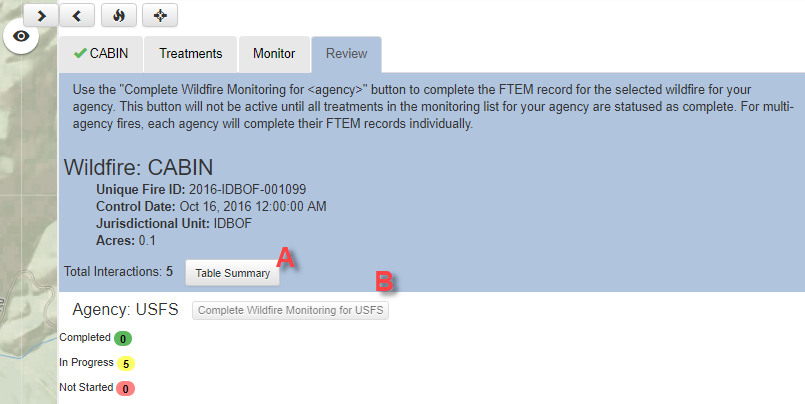
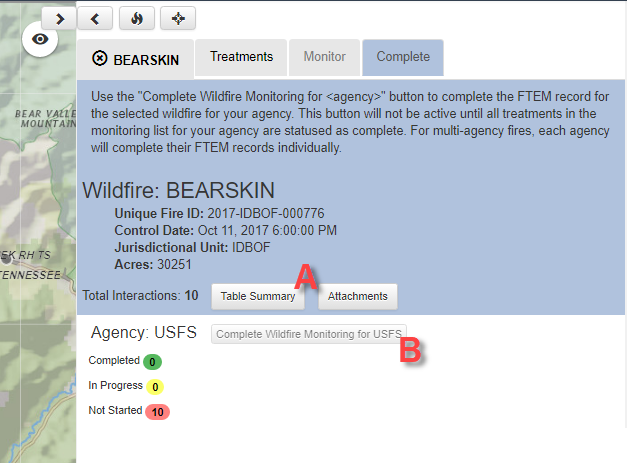
updates ftem pages, adds popover placeholders and links, updates font css for macs

diff --git a/Content/10-FTEM/UsingFtem.htm b/Content/10-FTEM/UsingFtem.htm
@@ -1,5 +1,5 @@
 <?xml version="1.0" encoding="utf-8"?>
-<html xmlns:MadCap="http://www.madcapsoftware.com/Schemas/MadCap.xsd" MadCap:lastBlockDepth="6" MadCap:lastHeight="4287" MadCap:lastWidth="1268">
+<html xmlns:MadCap="http://www.madcapsoftware.com/Schemas/MadCap.xsd" MadCap:lastBlockDepth="6" MadCap:lastHeight="4917" MadCap:lastWidth="2209">
     <head>
     </head>
     <body>
@@ -11,7 +11,7 @@
             </MadCap:dropDownHead>
             <MadCap:dropDownBody>
                 <p>
-                    <img src="../Resources/Images/FTEM/pickafire_diagram.png" alt="A layout map of common FTEM controls" />
+                    <img src="../Resources/Images/FTEM/pickafire_diagram.png" alt="A layout map of common FTEM controls" class="border" />
                 </p>
             </MadCap:dropDownBody>
         </MadCap:dropDown>
@@ -21,12 +21,12 @@
             </MadCap:dropDownHead>
             <MadCap:dropDownBody>
                 <p>
-                    <img src="../Resources/Images/FTEM/pickwildfire.png" alt="use the table to pick a wildfire" style="width: 845px;height: 419px;max-width: 680px;" />
+                    <img src="../Resources/Images/FTEM/pickwildfire.png" alt="use the table to pick a wildfire" style="width: 604px; height: 397px;" class="border" />
                 </p>
                 <p>Pick a wildfire based on year and wildfire name:</p>
                 <ol style="list-style-type: upper-alpha;">
                     <li>Enter a Wildfire Year, the year the wildfire was declared under control, or extinguished.</li>
-                    <li>(Optional) Filter your results by agency.</li>
+                    <li>(Optional) Filter your results by agency. If you are not an administrator or dual agency editor, this option may not be visible.</li>
                     <li>(Optional) Use the wildfire search field to further constrain your results by entering the fire name.</li>
                     <li>Left-click to select the desired fire name from the list.</li>
                     <div class="notificationTip">
@@ -36,24 +36,23 @@
                     <li>Proceed to the <span class="UIcomponent">Treatments</span>Tab. You may also proceed to Treatments by clicking the<span class="UIcomponent"> Select Treatments</span>button located to the left of the <span class="UIcomponent">Zoom To</span>button.</li>
                 </ol>
                 <div class="notificationNote">
-                    <p>Notice that each wildfire listed is followed by information, left to right, describing the number of acres, control date, jurisdiction unit, and the number of interactions.</p>
+                    <p>Notice that each wildfire listed is followed by information, left to right, describing the number of acres, control date, monitor status, and the number of interactions.</p>
                 </div>
             </MadCap:dropDownBody>
         </MadCap:dropDown>
         <MadCap:dropDown>
             <MadCap:dropDownHead>
-                <MadCap:dropDownHotspot>Step 2:&#160;Select Your Treatments</MadCap:dropDownHotspot>
+                <MadCap:dropDownHotspot>Step 2:&#160;Select Treatments</MadCap:dropDownHotspot>
             </MadCap:dropDownHead>
             <MadCap:dropDownBody>
-                <p> When a treatment is within your agencies jurisdiction you will see an empty check box to the left. </p>
-                <p>Select only the treatments that interacted with the wildfire. </p>
+                <p> In this step you will choose all the treatments for your agency that you know interacted or influenced the fire. Monitoring data for each of these will be added via the Monitoring tab. This step can be thought of as your 'shopping cart' where you place the treatments needing monitoring, and remove the ones that don't. </p>
                 <p>
-                    <img src="../Resources/Images/FTEM/treatments.png" alt="use the table to select your treatment" style="width: 1037px;height: 414px;" />
+                    <img src="../Resources/Images/FTEM/treatments.png" alt="use the table to select your treatment" style="width: 1037px; height: 414px;" class="border" />
                 </p>
                 <ol style="list-style-type: upper-alpha;">
                     <li>(Optional)&#160;If you know there are treatments that interacted with the wildfire, but do not see them here, click the <span class="UIcomponent">Add Treatment(s)</span>button to search and select treatments near the fire (This option allows you to choose a buffer distance to search within).</li>
                     <div class="notificationTip">By using the check box for one your more treatment, you may choose to enter data for treatments individually, or in batches.</div>
-                    <li>If there are treatments that should not be on this list, or did not interact with the fire, use the check box to select them and click the <span class="UIcomponent">Remove Treatment(s)</span>button. If you want to add these back in later, you may do so by using the <span class="UIcomponent">Add Treatments(s)</span>button.</li>
+                    <li>If there are treatments that did not interact with the fire, use the check box to select them and click the <span class="UIcomponent">Remove Treatment(s)</span>button. If you need to add these back in later, you may do so by using the <span class="UIcomponent">Add Treatments(s)</span>button.</li>
                     <li>Once you have all desired treatments, select them either individually by clicking the check box to the left of the treatment name(s), or by using the <span class="UIcomponent">Select All</span>button. <div class="notificationTip">Note the colored icons to the left of the treatment names. In this example the clouds indicate these treatments are polygons, and their red color indicates monitoring/data entry for them has not been started. Learn more about these symbols by visiting the <a href="Symbology.htm" target="_blank">FTEM&#160;Symbology Topic</a>.</div></li>
                     <li>Proceed to the <span class="UIcomponent">Monitor </span> tab. You may also get to Monitoring by clicking Monitor Treatment(s) button at the bottom right of the list.</li>
                 </ol>
@@ -64,11 +63,14 @@
         </MadCap:dropDown>
         <MadCap:dropDown>
             <MadCap:dropDownHead>
-                <MadCap:dropDownHotspot>Step 3: Enter Your Monitoring Data</MadCap:dropDownHotspot>
+                <MadCap:dropDownHotspot>Step 3: Enter Monitoring Data</MadCap:dropDownHotspot>
+                <MadCap:conditionalText MadCap:conditions="General.DeveloperNotes" class="comment">
+                    <MadCap:dropDownHotspot> - Note, these 'save' buttons in the UI&#160;may change before release</MadCap:dropDownHotspot>
+                </MadCap:conditionalText>
             </MadCap:dropDownHead>
             <MadCap:dropDownBody>
                 <p>
-                    <img src="../Resources/Images/FTEM/monitoring.png" alt="answer the required fields in the monitoring section" style="width: 850px;height: 666px;" />
+                    <img src="../Resources/Images/FTEM/monitoring.png" alt="answer the required fields in the monitoring section" style="width: 637px;height: 638px;" />
                 </p>
                 <ol style="list-style-type: upper-alpha;">
                     <li>Select the treatments to enter data for by clicking the check box next each treatment(s).</li>
@@ -77,19 +79,22 @@
                     <li>Proceed to any optional fields and enter data. We briefly describe guidance for data in each field in the <a href="Reporting.htm" target="_blank">FTEM Optional Questions Guidance Topic</a>.</li>
                     <li>Once your data is entered, click <span class="UIcomponent">Save and Close</span> to proceed. If you want to save your partially completed work and resume the rest of the process later, click <span class="UIcomponent">Save</span>.</li>
                     <div class="notificationTip">Note that in this example two of three treatments are selected for data entry. You can choose to enter the same data for all your treatments, or like this example, enter data for some treatments, and later enter different data for other treatments. This can be useful if multiple treatments were affected, but burned under different conditions.</div>
-                    <li>Proceed to the <span class="UIcomponent">Review</span> tab.</li>
+                    <li>While your treatment is still select, you may also use the <span class="UIcomponent">Attachments</span> button to add any relevant maps, images, or supporting materials.</li>
+                    <li>Proceed to the <span class="UIcomponent">Complete</span> tab.</li>
                 </ol>
             </MadCap:dropDownBody>
         </MadCap:dropDown>
         <MadCap:dropDown>
             <MadCap:dropDownHead>
-                <MadCap:dropDownHotspot>Step 4:&#160;Review and Submit your Data</MadCap:dropDownHotspot>
+                <MadCap:dropDownHotspot>Step 4:&#160;Complete the Process by Reviewing and Submitting your Data</MadCap:dropDownHotspot>
             </MadCap:dropDownHead>
             <MadCap:dropDownBody>
                 <p>
-                    <img src="../Resources/Images/FTEM/reviewtab.png" alt="the review tab lists all interactions" />
+                    <img src="../Resources/Images/FTEM/reviewtab.png" alt="the review tab lists all interactions" style="width: 556px; height: 410px;" class="border" />
                 </p>
-                <p>In the <span class="UIcomponent">Review</span> tab, click the <span class="UIcomponent">Table Summary</span> button to generate a review table of treatments and data entered. At this point, if you are satisfied with your treatment data, you may proceed to Step B. However, if you find a data entry that needs editing or additional information, you can use the tabs to navigate back, select treatments, and modify data.</p>
+                <p>In the <span class="UIcomponent">Complete</span> tab:</p>
+                <p>Click the <span class="UIcomponent">Table Summary</span> button to generate a review table of treatments and data entered. You may also review attachments using the <span class="UIcomponent">Attachments</span> button</p>
+                <p>At this point, if you are satisfied with your treatment data, you may proceed to Step B. However, if you find a data entry that needs editing or additional information, you can use the tabs to navigate back, select treatments, and modify data.</p>
                 <p>Click the <span class="UIcomponent">Complete Wildfire Monitoring</span>button to submit your data to the FTEM System.</p>
                 <p>At the bottom of the tab, the number of 'completed', 'in progress', and 'not started' treatments displays.</p>
                 <div class="notificationImportant">

diff --git a/Content/10-FTEM/MonitoringGuidance.htm b/Content/10-FTEM/MonitoringGuidance.htm
@@ -1,9 +1,9 @@
 <?xml version="1.0" encoding="utf-8"?>
-<html xmlns:MadCap="http://www.madcapsoftware.com/Schemas/MadCap.xsd" MadCap:lastBlockDepth="8" MadCap:lastHeight="3274" MadCap:lastWidth="1130">
+<html xmlns:MadCap="http://www.madcapsoftware.com/Schemas/MadCap.xsd" MadCap:lastBlockDepth="8" MadCap:lastHeight="4615" MadCap:lastWidth="2169">
     <head>
     </head>
     <body>
-        <h1>Guidance for Answering Monitoring</h1>
+        <h1>Guidance for Treatment Monitoring</h1>
         <p>Select the FTEM&#160;field below for an explanation about each input</p>
         <MadCap:dropDown>
             <MadCap:dropDownHead>
@@ -69,6 +69,7 @@
                 <ul>
                     <li>If you choose 'Other' or if there are multiple interactions in the 'Treatment and wildfire interaction details'</li>
                     <li>If you answered 'No' describing whether 'the treatment contributes to control and/or management of the fire.</li>
+                    <li>This will also be the place where to specify the RAWS name and number if used in the 'Weather Conditions' section later.</li>
                 </ul>
             </MadCap:dropDownBody>
         </MadCap:dropDown>
@@ -117,7 +118,7 @@
             <MadCap:dropDownBody>
                 <p>Report all fuel moisture percentages and weather observations <span class="Emphasis">at the time the wildfire intersected the treatment area </span>(or observation nearest to the time the fire intersected the treatment area). </p>
                 <p>Information should be either from the nearest weather station or from weather observations taken on site. If a weather station is used; indicate the name and RAWS station number used in the Comments section.</p>
-                <p>Select the estimated fuels moistures for 1, 10, 100, and 1000 hour fuels, each has a dropdown with the moisture depicted below. If no 10,100, or 1000 hour fuels exist in the treatment area, leave those fields blank. </p>
+                <p><b>1-1000 Hour Fuel Moistures:</b>&#160;Select the estimated fuels moistures for 1, 10, 100, and 1000 hour fuels, each has a dropdown with the moisture depicted below. If no 10,100, or 1000 hour fuels exist in the treatment area, leave those fields blank. </p>
                 <ul>
                     <li>1-5</li>
                     <li>6-10</li>
@@ -125,13 +126,14 @@
                     <li>16-20</li>
                     <li>20+</li>
                 </ul>
-                <p>Enter the Live fuel moisture percent (single value or range) if measurements/estimates are available from on-site or the local area that would be representative of woody/herbaceous fuels in the treatment/wildfire.</p>
-                <p>Select the live fuel moisture Sample type used to determine live fuel moistures from the dropdown menu (see below).</p>
+                <p><b>Live Fuel Moisture:</b>&#160;Enter the Live fuel moisture percent (single value or range) if measurements/estimates are available from on-site or the local area that would be representative of woody/herbaceous fuels in the treatment/wildfire.</p>
+                <p><b>Sample Type:</b> Select the live fuel moisture sample type used to determine live fuel moistures from the dropdown menu (see below).</p>
                 <ul>
                     <li>Woody</li>
                     <li>Herbaceous</li>
+                    <li>Conifer</li>
                 </ul>
-                <p>Select the Measured/Estimated used to determine the Live fuel moisture from the dropdown menu (see below):</p>
+                <p><b>Measured/Estimated:</b>&#160;Select the measured or estimated used to determine the Live fuel moisture from the dropdown menu (see below):</p>
                 <ul>
                     <li>M – for Measured</li>
                     <li>E – for Estimated</li>
@@ -144,22 +146,22 @@
             </MadCap:dropDownHead>
             <MadCap:dropDownBody>
                 <p>All fuel moisture and weather observations should be from the time the wildfire intersected the treatment area (or observations nearest to the time the fire intersected the treatment area). </p>
-                <p>Information should be either from the nearest weather station or from weather observations taken on site. If a weather station is used; indicate the name and RAWS station number used in the Comments section.</p>
-                <p>Select the weather Observation source from the dropdown menu (see below):</p>
+                <p>Information should be either from the nearest weather station or from weather observations taken on site. If a weather station is used; indicate the name and RAWS station number used in the Comments section of Interaction Details.</p>
+                <p><b>Observation Source:</b>&#160;Select the weather observation source from the dropdown options below:</p>
                 <ul>
-                    <li>Local – Offsite observation when measured away from wildfire</li>
                     <li>On Site – Site observation when measured on wildfire)</li>
                     <li>Station Observation– RAWS or other official weather station</li>
+                    <li>Local - Offsite observation when measured away from wildfire</li>
                 </ul>
-                <p>Select the weather Observation date (month, day, year) from the dropdown menu. Ideally this will be the same date as when the fire entered the treatment.</p>
-                <p>Select the ERC percentile from the dropdown menu (see below):</p>
+                <p><b>Observation Date:</b> Input in mm/dd/yyyy format. Ideally this will be the same data as when the fire entered the treatment.</p>
+                <p><b>ERC Percentile:</b>&#160;Select the Energy Release Component (ERC) percentile from the dropdown menu (see below):</p>
                 <ul>
                     <li>Less than 90%</li>
                     <li>90 - 97%</li>
                     <li>Greater than 97%</li>
                 </ul>
-                <p>Enter the Wind speed (single value or range) in miles per hour. Use the mid-flame wind-speed (MFWS).  If you need to convert 20 feet wind speeds to MFWS, visit the <a href="WindAdjustment.htm" target="_blank">Windspeed Conversion Topic</a></p>
-                <p>Select the wind direction from the dropdown menu (see below):</p>
+                <p><b>Wind Speed:</b>&#160;Enter the wind speed (single value or range) in miles per hour. Use the mid-flame wind-speed (MFWS).  If you need to convert 20 feet wind speeds to MFWS, visit the <a href="WindAdjustment.htm" target="_blank">Windspeed Conversion Topic</a></p>
+                <p><b>Wind Direction:</b>&#160;Select the wind direction from the dropdown menu (see below):</p>
                 <ul>
                     <li>N</li>
                     <li>NE</li>
@@ -170,7 +172,7 @@
                     <li>E</li>
                     <li>W</li>
                 </ul>
-                <p>Select the air temperature in degrees Fahrenheit from the dropdown menu (see below):</p>
+                <p><b>Temperature:</b>&#160;Select the air temperature in degrees Fahrenheit from the dropdown menu (see below):</p>
                 <ul>
                     <li>&lt; 60</li>
                     <li>60 – 69</li>
@@ -179,7 +181,7 @@
                     <li>90 - 99</li>
                     <li>100+</li>
                 </ul>
-                <p>Enter the estimated relative humidity-RH in percent.</p>
+                <p>Relative Humidity:&#160;Enter the estimated relative humidity (0-100) in percent.</p>
             </MadCap:dropDownBody>
         </MadCap:dropDown>
         <MadCap:dropDown>
@@ -188,6 +190,20 @@
             </MadCap:dropDownHead>
             <MadCap:dropDownBody>
                 <p>Choose the dominant top three Fire Behavior Fuel Model (FBFM) 13 or FBFM 40 Fuel Model(s) inside and outside the treated area and the approximate percent of the fuel treatment area they cover. These Percents do not need to add to 100 percent. See <a href="../41-References/ReferenceList.htm#Scottandburgan2005" target="_blank">Scott and Burgan (2005)</a> fuel model descriptions.</p>
+            </MadCap:dropDownBody>
+        </MadCap:dropDown>
+        <MadCap:dropDown>
+            <MadCap:dropDownHead>
+                <MadCap:dropDownHotspot>Attachments</MadCap:dropDownHotspot>
+            </MadCap:dropDownHead>
+            <MadCap:dropDownBody>
+                <p>Attachments can be included during the monitoring phase of treatment monitoring. Files available for upload include:</p>
+                <ul>
+                    <li>PDF</li>
+                    <li>JPG</li>
+                    <li>PNG</li>
+                    <li>Word (Doc, Docx)</li>
+                </ul>
             </MadCap:dropDownBody>
         </MadCap:dropDown>
     </body>

diff --git a/Content/10-FTEM/Symbology.htm b/Content/10-FTEM/Symbology.htm
@@ -1,5 +1,5 @@
 <?xml version="1.0" encoding="utf-8"?>
-<html xmlns:MadCap="http://www.madcapsoftware.com/Schemas/MadCap.xsd">
+<html xmlns:MadCap="http://www.madcapsoftware.com/Schemas/MadCap.xsd" MadCap:lastBlockDepth="2" MadCap:lastHeight="1499" MadCap:lastWidth="2289">
     <head>
     </head>
     <body>
@@ -7,15 +7,15 @@
         <p>The FTEM mapping features consist of either points, or polygons. These are color coded to indicate the status of the treatment documentation in FTEM as either completed, in-progress, or not started. Similar symbology is also used when viewing FTEM data as a list. Below we list each of the symbols used in FTEM:</p>
         <h2>Map Symbols</h2>
         <h3>Wildfire Points</h3>
-        <p MadCap:conditions="General.LaterRelease">
-            <img src="../Resources/Images/FTEM/symbology/monitoring_completed.png" alt="monitoring completed" /> Monitoring Completed</p>
-        <p MadCap:conditions="General.LaterRelease">
-            <img src="../Resources/Images/FTEM/symbology/monitoring_inprogress.png" alt="monitoring in progress" /> Monitoring In Progress</p>
         <p>
+            <img src="../Resources/Images/FTEM/symbology/monitoring_completed.png" alt="monitoring completed" /> Monitoring Completed</p>
+        <p>
+            <img src="../Resources/Images/FTEM/symbology/monitoring_inprogress.png" alt="monitoring in progress" /> Monitoring In Progress</p>
+        <p MadCap:conditions="General.Exclude">
             <img src="../Resources/Images/FTEM/symbology/wildfire_point.png" alt="point, check for interactions" />Wildfire Points</p>
-        <p MadCap:conditions="General.LaterRelease">
+        <p>
             <img alt="point, check for interactions" src="../Resources/Images/FTEM/symbology/wildfire_point.png" /> Check for Interactions</p>
-        <p MadCap:conditions="General.LaterRelease">
+        <p>
             <img src="../Resources/Images/FTEM/symbology/no interactions detected.png" alt="no interaction detected" /> No Interactions Detected</p>
         <h3>Wildfire Polygons</h3>
         <p>

diff --git a/Content/10-FTEM/FTEMAbout.htm b/Content/10-FTEM/FTEMAbout.htm
@@ -1,5 +1,5 @@
 <?xml version="1.0" encoding="utf-8"?>
-<html xmlns:MadCap="http://www.madcapsoftware.com/Schemas/MadCap.xsd" MadCap:lastBlockDepth="5" MadCap:lastHeight="1269" MadCap:lastWidth="2315">
+<html xmlns:MadCap="http://www.madcapsoftware.com/Schemas/MadCap.xsd" MadCap:lastBlockDepth="5" MadCap:lastHeight="1269" MadCap:lastWidth="2229">
     <head>
     </head>
     <body>
@@ -21,11 +21,11 @@
             </MadCap:dropDownBody>
         </MadCap:dropDown>
         <p>&#160;</p>
-        <p><a href="AccountSetup.htm" target="_blank">1 Set up your FTEM Account</a>
+        <p><a href="AccountSetup.htm" target="_blank">1) Set up your FTEM Account</a>
         </p>
-        <p><a href="UsingFtem.htm" target="_blank">2 Know the basic process behind using FTEM (Walkthough)</a>
+        <p><a href="UsingFtem.htm" target="_blank">2) Know the basic process behind using FTEM (Walkthough)</a>
         </p>
-        <p><a href="Symbology.htm" target="_blank">3 Understand the symbols used in FTEM</a>
+        <p><a href="Symbology.htm" target="_blank">3) Understand the symbols used in FTEM</a>
         </p>
         <p>4) Get more specific information when needed:</p>
         <ul>

diff --git a/Content/50-Hover/FTEM/wildfires_hh.htm b/Content/50-Hover/FTEM/wildfires_hh.htm
@@ -1,0 +1,14 @@
+<?xml version="1.0" encoding="utf-8"?>
+<html xmlns:MadCap="http://www.madcapsoftware.com/Schemas/MadCap.xsd" MadCap:searchable="False" MadCap:lastBlockDepth="2" MadCap:lastHeight="279" MadCap:lastWidth="2289">
+    <head>
+        <link href="../../Resources/Stylesheets/NoTopNav.css" rel="stylesheet" type="text/css" />
+    </head>
+    <body>
+        <p><i class="fa fa-youtube-play" aria-hidden="true"></i> <a href="https://google.com/" target="_blank">Watch a Demo</a> | <a href="../../10-FTEM/UsingFtem.htm" target="_blank">Read a Walkthrough</a></p>
+        <p>Select a wildfire (controlled) to see the treatments associated with it.</p>
+        <p>Treatments within a <a href="../../10-FTEM/TechDoc.htm" target="_blank">buffer</a> of the selected wildfire will become available in the Treatments tab (<a href="https://google.com/" target="_blank">more info on wildfire data</a>).</p>
+        <p>Monitor wildfires within 90 days of the fire being declared out</p>
+        <p><a href="../../10-FTEM/FTEMFaq.htm" target="_blank">FAQs</a> | <a href="../../10-FTEM/FTEMPolicy.htm" target="_blank">Policy</a></p>
+        <p>&#160;</p>
+    </body>
+</html>

diff --git a/Content/50-Hover/FTEM/treatments_hh.htm b/Content/50-Hover/FTEM/treatments_hh.htm
@@ -1,0 +1,13 @@
+<?xml version="1.0" encoding="utf-8"?>
+<html xmlns:MadCap="http://www.madcapsoftware.com/Schemas/MadCap.xsd" MadCap:searchable="False" MadCap:lastBlockDepth="2" MadCap:lastHeight="239" MadCap:lastWidth="2289">
+    <head>
+        <link href="../../Resources/Stylesheets/NoTopNav.css" rel="stylesheet" type="text/css" />
+    </head>
+    <body>
+        <p>Check the box for treatments that meet the <a href="../../10-FTEM/FTEMPolicy.htm" target="_blank">interaction criteria</a> and need to be monitored.</p>
+        <p>Note: This list is shared by all FTEM viewers, adding or removing a treatment from here does so for all FTEM Users.</p>
+        <p>Coordination on selecting/removing multi-unit treatments (2 neighboring districts, parks etc.)</p>
+        <p><a href="../../10-FTEM/FTEMFaq.htm" target="_blank">FAQs</a> | <a href="../../10-FTEM/FTEMPolicy.htm" target="_blank">Policy</a></p>
+        <p>&#160;</p>
+    </body>
+</html>

diff --git a/Content/50-Hover/FTEM/Complete_hh.htm b/Content/50-Hover/FTEM/Complete_hh.htm
@@ -1,0 +1,11 @@
+<?xml version="1.0" encoding="utf-8"?>
+<html xmlns:MadCap="http://www.madcapsoftware.com/Schemas/MadCap.xsd" MadCap:lastBlockDepth="2" MadCap:lastHeight="159" MadCap:lastWidth="2289" MadCap:searchable="False">
+    <head>
+        <link href="../../Resources/Stylesheets/NoTopNav.css" rel="stylesheet" type="text/css" />
+    </head>
+    <body>
+        <p>You can revisit the previous tabs to edit treatments and data before submitting.</p>
+        <p>Some fires may have all treatments completed for one agency, but still do not show on the Map as fully complete because the other agency has not yet completed their monitoring.</p>
+        <p><a href="../../10-FTEM/FTEMFaq.htm" target="_blank">FAQs</a> | <a href="../../10-FTEM/FTEMPolicy.htm" target="_blank">Policy</a></p>
+    </body>
+</html>

diff --git a/Content/10-FTEM/AccountSetup.htm b/Content/10-FTEM/AccountSetup.htm
@@ -1,5 +1,5 @@
 <?xml version="1.0" encoding="utf-8"?>
-<html xmlns:MadCap="http://www.madcapsoftware.com/Schemas/MadCap.xsd" MadCap:lastBlockDepth="6" MadCap:lastHeight="4522" MadCap:lastWidth="1335">
+<html xmlns:MadCap="http://www.madcapsoftware.com/Schemas/MadCap.xsd" MadCap:lastBlockDepth="6" MadCap:lastHeight="4285" MadCap:lastWidth="2209">
     <head>
     </head>
     <body>
@@ -72,8 +72,7 @@
                         </div>
                     </li>
                     <li>
-                        <p class="comment">Click Submit [button pending]</p>
-                        <div>pic</div>
+                        <p>Click Submit</p>
                     </li>
                 </ol>
             </MadCap:dropDownBody>

diff --git a/Content/50-Hover/FTEM/monitoring_hh.htm b/Content/50-Hover/FTEM/monitoring_hh.htm
@@ -1,0 +1,11 @@
+<?xml version="1.0" encoding="utf-8"?>
+<html xmlns:MadCap="http://www.madcapsoftware.com/Schemas/MadCap.xsd" MadCap:searchable="False" MadCap:lastBlockDepth="2" MadCap:lastHeight="159" MadCap:lastWidth="2289">
+    <head>
+        <link href="../../Resources/Stylesheets/NoTopNav.css" rel="stylesheet" type="text/css" />
+    </head>
+    <body>
+        <p>Use the Monitor Data button to show the monitoring input fields</p>
+        <p>Use the Attachments button to upload any supporting maps, images, or files.</p>
+        <p><a href="../../10-FTEM/FTEMFaq.htm" target="_blank">FAQs</a> | <a href="../../10-FTEM/FTEMPolicy.htm" target="_blank">Policy</a></p>
+    </body>
+</html>

diff --git a/Content/10-FTEM/FTEMPolicy.htm b/Content/10-FTEM/FTEMPolicy.htm
@@ -3,7 +3,8 @@
     <head>
     </head>
     <body>
-        <h1>FTEM&#160;Technical Documentation</h1>
-        <p>[Buffering document contents]</p>
+        <h1>FTEM Policy</h1>
+        <p><span class="comment">Information will be provided by Committee</span>
+        </p>
     </body>
 </html>

diff --git a/Content/Resources/Stylesheets/NoTopNav.css b/Content/Resources/Stylesheets/NoTopNav.css
@@ -8,7 +8,7 @@ body
 	background-repeat:no-repeat;
 	background-color:#E0EAF1;
 	color: #404040;
-	font-family: Arial, Avenir, Myriad;
+	font-family: Arial, Avenir, Myriad, sans-serif;
 	font-size: 12px;
 }
 

diff --git a/Content/Resources/Stylesheets/MainStyles.css b/Content/Resources/Stylesheets/MainStyles.css
@@ -3,7 +3,7 @@
 body
 {
 	color: #404040;
-	font-family: Arial, Avenir, Myriad;
+	font-family: Arial, Avenir, Myriad, sans-serif;
 	font-size: 1em;
 	line-height: 1.3em;
 }
